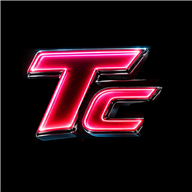
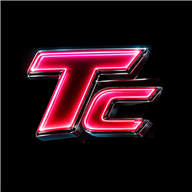
TC symbol cleaned: C bottom end rebuilt, T stem no longer covered

diff --git a/site/ride.html b/site/ride.html
@@ -23,11 +23,11 @@
 <link rel="preconnect" href="https://fonts.googleapis.com">
 <link rel="preconnect" href="https://fonts.gstatic.com" crossorigin>
 <link href="https://fonts.googleapis.com/css2?family=Oswald:wght@500;700&family=Great+Vibes&family=Inter:wght@400;500;600;700&display=swap" rel="stylesheet">
-<link rel="stylesheet" href="/assets/css/style.css?v=mw1ucftt">
-<link rel="stylesheet" href="/assets/css/fx.css?v=mw1ucftt">
-<link rel="stylesheet" href="/assets/css/app.css?v=mw1ucftt">
-<link rel="stylesheet" href="/assets/css/members.css?v=mw1ucftt">
-<link rel="stylesheet" href="/assets/css/light.css?v=mw1ucftt">
+<link rel="stylesheet" href="/assets/css/style.css?v=mw1ukhep">
+<link rel="stylesheet" href="/assets/css/fx.css?v=mw1ukhep">
+<link rel="stylesheet" href="/assets/css/app.css?v=mw1ukhep">
+<link rel="stylesheet" href="/assets/css/members.css?v=mw1ukhep">
+<link rel="stylesheet" href="/assets/css/light.css?v=mw1ukhep">
 <script>try{var q=new URLSearchParams(location.search).get('theme');if(q)localStorage.setItem('take_theme',q);if(localStorage.getItem('take_theme')==='light')document.documentElement.dataset.theme='light'}catch(e){}</script>
 <script type="application/ld+json">{"@context":"https://schema.org","@graph":[{"@type":"WebPage","@id":"https://take-canggu.pages.dev/ride","url":"https://take-canggu.pages.dev/ride","name":"Scooter Rental Canggu from Rp 85K a day | TAKE Scooter Rental Berawa","description":"Rent a Scoopy, Beat, Vario, NMAX, PCX, ADV or XMAX in Berawa, Canggu, from Rp 85K a day. Drivers for the airport, Ubud, Uluwatu and Mount Batur sunrise treks. Book online, confirm on WhatsApp.","about":{"@id":"https://take-canggu.pages.dev/ride#rental"},"inLanguage":"en"},{"@type":"AutoRental","@id":"https://take-canggu.pages.dev/ride#rental","name":"TAKE Scooter Rental","alternateName":"TAKE SCOOTER RENTAL","url":"https://take-canggu.pages.dev/ride","image":["https://take-canggu.pages.dev/assets/img/shop-side.jpg","https://take-canggu.pages.dev/assets/img/og-ride.jpg"],"telephone":["+6282240160894","+6282145954191","+6282191337592"],"address":{"@type":"PostalAddress","streetAddress":"Perum Prapta Canggu Asri Blok D No.1, Jl. Krisnantara 1, off Jl. Pantai Berawa","addressLocality":"Tibubeneng, Canggu","addressRegion":"Bali","addressCountry":"ID"},"geo":{"@type":"GeoCoordinates","latitude":-8.6481268,"longitude":115.1481513},"hasMap":"https://maps.google.com/?cid=2267207769960955668","openingHoursSpecification":{"@type":"OpeningHoursSpecification","dayOfWeek":["Monday","Tuesday","Wednesday","Thursday","Friday","Saturday","Sunday"],"opens":"07:00","closes":"20:00"},"priceRange":"Rp 85K a day and up","currenciesAccepted":"IDR","makesOffer":[{"@type":"Offer","name":"Honda Beat scooter rental","priceCurrency":"IDR","priceSpecification":{"@type":"UnitPriceSpecification","price":85000,"priceCurrency":"IDR","unitCode":"DAY","unitText":"per day"},"itemOffered":{"@type":"Product","name":"Honda Beat","description":"110cc automatic scooter"}},{"@type":"Offer","name":"Yamaha Gear scooter rental","priceCurrency":"IDR","priceSpecification":{"@type":"UnitPriceSpecification","price":85000,"priceCurrency":"IDR","unitCode":"DAY","unitText":"per day"},"itemOffered":{"@type":"Product","name":"Yamaha Gear","description":"125cc automatic scooter"}},{"@type":"Offer","name":"Honda Scoopy scooter rental","priceCurrency":"IDR","priceSpecification":{"@type":"UnitPriceSpecification","price":100000,"priceCurrency":"IDR","unitCode":"DAY","unitText":"per day"},"itemOffered":{"@type":"Product","name":"Honda Scoopy","description":"110cc automatic scooter"}},{"@type":"Offer","name":"Yamaha Fazzio scooter rental","priceCurrency":"IDR","priceSpecification":{"@type":"UnitPriceSpecification","price":100000,"priceCurrency":"IDR","unitCode":"DAY","unitText":"per day"},"itemOffered":{"@type":"Product","name":"Yamaha Fazzio","description":"125cc automatic scooter"}},{"@type":"Offer","name":"Honda Vario scooter rental","priceCurrency":"IDR","priceSpecification":{"@type":"UnitPriceSpecification","price":120000,"priceCurrency":"IDR","unitCode":"DAY","unitText":"per day"},"itemOffered":{"@type":"Product","name":"Honda Vario","description":"125cc automatic scooter"}},{"@type":"Offer","name":"Yamaha NMAX scooter rental","priceCurrency":"IDR","priceSpecification":{"@type":"UnitPriceSpecification","price":150000,"priceCurrency":"IDR","unitCode":"DAY","unitText":"per day"},"itemOffered":{"@type":"Product","name":"Yamaha NMAX","description":"155cc automatic scooter"}},{"@type":"Offer","name":"Honda PCX scooter rental","priceCurrency":"IDR","priceSpecification":{"@type":"UnitPriceSpecification","price":150000,"priceCurrency":"IDR","unitCode":"DAY","unitText":"per day"},"itemOffered":{"@type":"Product","name":"Honda PCX","description":"160cc automatic scooter"}},{"@type":"Offer","name":"Honda ADV scooter rental","priceCurrency":"IDR","priceSpecification":{"@type":"UnitPriceSpecification","price":175000,"priceCurrency":"IDR","unitCode":"DAY","unitText":"per day"},"itemOffered":{"@type":"Product","name":"Honda ADV","description":"160cc automatic scooter"}},{"@type":"Offer","name":"Yamaha XMAX scooter rental","priceCurrency":"IDR","priceSpecification":{"@type":"UnitPriceSpecification","price":300000,"priceCurrency":"IDR","unitCode":"DAY","unitText":"per day"},"itemOffered":{"@type":"Product","name":"Yamaha XMAX","description":"250cc automatic scooter"}}]},{"@type":"CafeOrCoffeeShop","@id":"https://take-canggu.pages.dev/#cafe","name":"TAKE Coffee & Eatery","alternateName":"Take Coffee Canggu","url":"https://take-canggu.pages.dev/","image":["https://take-canggu.pages.dev/assets/img/shop-front.jpg","https://take-canggu.pages.dev/assets/img/og-eat.jpg"],"telephone":"+6282191337592","address":{"@type":"PostalAddress","streetAddress":"Perum Prapta Canggu Asri Blok D No.1, Jl. Krisnantara 1, off Jl. Pantai Berawa","addressLocality":"Tibubeneng, Canggu","addressRegion":"Bali","addressCountry":"ID"},"geo":{"@type":"GeoCoordinates","latitude":-8.6481201,"longitude":115.1481354},"hasMap":"https://maps.google.com/?cid=11705024513808798293","openingHoursSpecification":{"@type":"OpeningHoursSpecification","dayOfWeek":["Monday","Tuesday","Wednesday","Thursday","Friday","Saturday","Sunday"],"opens":"07:00","closes":"20:00"},"servesCuisine":["Indonesian","Western","Coffee"],"priceRange":"Rp 6K to Rp 55K","currenciesAccepted":"IDR","hasMenu":{"@type":"Menu","name":"TAKE Coffee & Eatery menu","hasMenuSection":[{"@type":"MenuSection","name":"Breakfast","hasMenuItem":[{"@type":"MenuItem","name":"Easy Breakfast","offers":{"@type":"Offer","price":45000,"priceCurrency":"IDR"}},{"@type":"MenuItem","name":"Simple Breakfast","offers":{"@type":"Offer","price":50000,"priceCurrency":"IDR"}},{"@type":"MenuItem","name":"2 x 2 Breakfast","offers":{"@type":"Offer","price":25000,"priceCurrency":"IDR"}},{"@type":"MenuItem","name":"Fruit Platter","offers":{"@type":"Offer","price":40000,"priceCurrency":"IDR"}}]},{"@type":"MenuSection","name":"Local food","hasMenuItem":[{"@type":"MenuItem","name":"Nasi Goreng","offers":{"@type":"Offer","price":20000,"priceCurrency":"IDR"}},{"@type":"MenuItem","name":"Nasi Goreng Chicken","offers":{"@type":"Offer","price":25000,"priceCurrency":"IDR"}},{"@type":"MenuItem","name":"Mi Goreng","offers":{"@type":"Offer","price":20000,"priceCurrency":"IDR"}},{"@type":"MenuItem","name":"Mi Goreng Chicken","offers":{"@type":"Offer","price":25000,"priceCurrency":"IDR"}},{"@type":"MenuItem","name":"Sweet & Sour Chicken","offers":{"@type":"Offer","price":25000,"priceCurrency":"IDR"}},{"@type":"MenuItem","name":"Fuyung Hai","offers":{"@type":"Offer","price":20000,"priceCurrency":"IDR"}},{"@type":"MenuItem","name":"Cap Cay","offers":{"@type":"Offer","price":25000,"priceCurrency":"IDR"}},{"@type":"MenuItem","name":"Steamed Rice","offers":{"@type":"Offer","price":6000,"priceCurrency":"IDR"}}]},{"@type":"MenuSection","name":"Pizza","hasMenuItem":[{"@type":"MenuItem","name":"Meat Lover","offers":{"@type":"Offer","price":55000,"priceCurrency":"IDR"}},{"@type":"MenuItem","name":"Hawai","offers":{"@type":"Offer","price":50000,"priceCurrency":"IDR"}},{"@type":"MenuItem","name":"Vegetable","offers":{"@type":"Offer","price":45000,"priceCurrency":"IDR"}},{"@type":"MenuItem","name":"Margherita","offers":{"@type":"Offer","price":40000,"priceCurrency":"IDR"}}]},{"@type":"MenuSection","name":"Pasta","hasMenuItem":[{"@type":"MenuItem","name":"Bolognese","offers":{"@type":"Offer","price":45000,"priceCurrency":"IDR"}},{"@type":"MenuItem","name":"Carbonara","offers":{"@type":"Offer","price":50000,"priceCurrency":"IDR"}},{"@type":"MenuItem","name":"Aglio Olio","offers":{"@type":"Offer","price":40000,"priceCurrency":"IDR"}}]},{"@type":"MenuSection","name":"Small bites","hasMenuItem":[{"@type":"MenuItem","name":"French Fries","offers":{"@type":"Offer","price":20000,"priceCurrency":"IDR"}},{"@type":"MenuItem","name":"Chicken Nuggets","offers":{"@type":"Offer","price":20000,"priceCurrency":"IDR"}},{"@type":"MenuItem","name":"Grilled Sausage","offers":{"@type":"Offer","price":20000,"priceCurrency":"IDR"}},{"@type":"MenuItem","name":"Potato Wedges","offers":{"@type":"Offer","price":20000,"priceCurrency":"IDR"}},{"@type":"MenuItem","name":"Fried Tempeh","offers":{"@type":"Offer","price":20000,"priceCurrency":"IDR"}}]},{"@type":"MenuSection","name":"Coffee & drinks","hasMenuItem":[{"@type":"MenuItem","name":"Latte (hot or cold)","offers":{"@type":"Offer","price":20000,"priceCurrency":"IDR"}},{"@type":"MenuItem","name":"Cappuccino (hot or cold)","offers":{"@type":"Offer","price":20000,"priceCurrency":"IDR"}},{"@type":"MenuItem","name":"Bali Coffee","offers":{"@type":"Offer","price":10000,"priceCurrency":"IDR"}},{"@type":"MenuItem","name":"Nescafe","offers":{"@type":"Offer","price":10000,"priceCurrency":"IDR"}},{"@type":"MenuItem","name":"Tea (hot or cold)","offers":{"@type":"Offer","price":8000,"priceCurrency":"IDR"}},{"@type":"MenuItem","name":"Mineral Water","offers":{"@type":"Offer","price":8000,"priceCurrency":"IDR"}},{"@type":"MenuItem","name":"Sprite","offers":{"@type":"Offer","price":10000,"priceCurrency":"IDR"}},{"@type":"MenuItem","name":"Fanta","offers":{"@type":"Offer","price":10000,"priceCurrency":"IDR"}},{"@type":"MenuItem","name":"Coca Cola","offers":{"@type":"Offer","price":10000,"priceCurrency":"IDR"}}]},{"@type":"MenuSection","name":"Juices","hasMenuItem":[{"@type":"MenuItem","name":"Avocado Juice","offers":{"@type":"Offer","price":20000,"priceCurrency":"IDR"}},{"@type":"MenuItem","name":"Dragon Fruit Juice","offers":{"@type":"Offer","price":20000,"priceCurrency":"IDR"}},{"@type":"MenuItem","name":"Watermelon Juice","offers":{"@type":"Offer","price":15000,"priceCurrency":"IDR"}},{"@type":"MenuItem","name":"Pineapple Juice","offers":{"@type":"Offer","price":15000,"priceCurrency":"IDR"}},{"@type":"MenuItem","name":"Orange Juice","offers":{"@type":"Offer","price":15000,"priceCurrency":"IDR"}},{"@type":"MenuItem","name":"Young Coconut","offers":{"@type":"Offer","price":20000,"priceCurrency":"IDR"}},{"@type":"MenuItem","name":"Traditional Jamu","offers":{"@type":"Offer","price":35000,"priceCurrency":"IDR"}},{"@type":"MenuItem","name":"Natural Black Honey"}]},{"@type":"MenuSection","name":"Beer","hasMenuItem":[{"@type":"MenuItem","name":"Bintang Original","offers":{"@type":"Offer","price":35000,"priceCurrency":"IDR"}},{"@type":"MenuItem","name":"Bintang Radler","offers":{"@type":"Offer","price":35000,"priceCurrency":"IDR"}},{"@type":"MenuItem","name":"Bintang Crystal","offers":{"@type":"Offer","price":35000,"priceCurrency":"IDR"}}]}]}},{"@type":"FAQPage","mainEntity":[{"@type":"Question","name":"Where is TAKE in Canggu?","acceptedAnswer":{"@type":"Answer","text":"In Perum Prapta Canggu Asri, Blok D No.1, on Jl. Krisnantara 1, a quiet lane off Jalan Pantai Berawa in Tibubeneng. TAKE Coffee and TAKE Scooter Rental share the white house with the two signs."}},{"@type":"Question","name":"What are the opening hours?","acceptedAnswer":{"@type":"Answer","text":"Every day from 7am to 8pm, for the kitchen and the rental desk."}},{"@type":"Question","name":"Do you deliver food?","acceptedAnswer":{"@type":"Answer","text":"Yes. Order on this page and choose delivery, or WhatsApp the kitchen on 0821 9133 7592."}},{"@type":"Question","name":"How much is a scooter a day?","acceptedAnswer":{"@type":"Answer","text":"From Rp 85K a day: Honda Beat 85K, Yamaha Gear 85K, Honda Scoopy 100K, Yamaha Fazzio 100K, Honda Vario 120K, Yamaha NMAX 150K, Honda PCX 150K, Honda ADV 175K, Yamaha XMAX 300K."}},{"@type":"Question","name":"How do I book a scooter?","acceptedAnswer":{"@type":"Answer","text":"Choose a model and your dates on the scooter page and send the request. We confirm the bike and the price on WhatsApp, then you pick it up at the shop."}},{"@type":"Question","name":"How do I pay?","acceptedAnswer":{"@type":"Answer","text":"Online payment is coming soon. For now we confirm your scooter booking on WhatsApp and you pay at the shop; food is paid at the counter."}},{"@type":"Question","name":"How do TAKE Points work?","acceptedAnswer":{"@type":"Answer","text":"Sign in as a member with your email. You get 1 point for every Rp 10K you pay on food and scooter rentals, and 100 points take Rp 25K off your next order or rental."}},{"@type":"Question","name":"Do you have drivers and tours?","acceptedAnswer":{"@type":"Answer","text":"Yes: Airport transfer, Sanur, Ubud, Nusa Dua, Uluwatu, Tanah Lot, Candi Dasa, Padang Bay, Trekking Mount Batur, Trekking Mount Agung, Full day tour. Send a request with the date and pick-up place."}}]}]}</script>
 </head>
@@ -339,15 +339,15 @@
   <a class="chat-human" id="chatHuman" href="https://wa.me/6282240160894" target="_blank" rel="noopener"><svg viewBox="0 0 24 24" aria-hidden="true"><path d="M12 3C6.9 3 3 6.6 3 11.1c0 2.5 1.2 4.7 3.2 6.2L5.5 21l3.9-2.1c.8.2 1.7.3 2.6.3 5.1 0 9-3.6 9-8.1S17.1 3 12 3Z" fill="none" stroke="currentColor" stroke-width="1.8" stroke-linejoin="round"/></svg><span>Talk to a person on WhatsApp</span></a>
 </div>
 <button class="cart-fab only-eat" id="cartFab" type="button" hidden>Order <b id="cartCount">0</b> · <span id="cartTotal"></span></button>
-<script src="/assets/js/data.js?v=mw1ucftt"></script>
-<script src="/assets/js/main.js?v=mw1ucftt"></script>
-<script src="/assets/js/member.js?v=mw1ucftt"></script>
-<script src="/assets/js/book.js?v=mw1ucftt"></script>
-<script src="/assets/js/chat.js?v=mw1ucftt"></script>
-<script src="/assets/js/zoom.js?v=mw1ucftt"></script>
-<script src="/assets/js/theme.js?v=mw1ucftt"></script>
+<script src="/assets/js/data.js?v=mw1ukhep"></script>
+<script src="/assets/js/main.js?v=mw1ukhep"></script>
+<script src="/assets/js/member.js?v=mw1ukhep"></script>
+<script src="/assets/js/book.js?v=mw1ukhep"></script>
+<script src="/assets/js/chat.js?v=mw1ukhep"></script>
+<script src="/assets/js/zoom.js?v=mw1ukhep"></script>
+<script src="/assets/js/theme.js?v=mw1ukhep"></script>
 <script src="/i18n.js" defer></script>
-<script src="/assets/js/space.js?v=mw1ucftt"></script>
-<script src="/assets/js/fx.js?v=mw1ucftt"></script>
+<script src="/assets/js/space.js?v=mw1ukhep"></script>
+<script src="/assets/js/fx.js?v=mw1ukhep"></script>
 </body>
 </html>

diff --git a/site/index.html b/site/index.html
@@ -23,11 +23,11 @@
 <link rel="preconnect" href="https://fonts.googleapis.com">
 <link rel="preconnect" href="https://fonts.gstatic.com" crossorigin>
 <link href="https://fonts.googleapis.com/css2?family=Oswald:wght@500;700&family=Great+Vibes&family=Inter:wght@400;500;600;700&display=swap" rel="stylesheet">
-<link rel="stylesheet" href="/assets/css/style.css?v=mw1ucftt">
-<link rel="stylesheet" href="/assets/css/fx.css?v=mw1ucftt">
-<link rel="stylesheet" href="/assets/css/app.css?v=mw1ucftt">
-<link rel="stylesheet" href="/assets/css/members.css?v=mw1ucftt">
-<link rel="stylesheet" href="/assets/css/light.css?v=mw1ucftt">
+<link rel="stylesheet" href="/assets/css/style.css?v=mw1ukhep">
+<link rel="stylesheet" href="/assets/css/fx.css?v=mw1ukhep">
+<link rel="stylesheet" href="/assets/css/app.css?v=mw1ukhep">
+<link rel="stylesheet" href="/assets/css/members.css?v=mw1ukhep">
+<link rel="stylesheet" href="/assets/css/light.css?v=mw1ukhep">
 <script>try{var q=new URLSearchParams(location.search).get('theme');if(q)localStorage.setItem('take_theme',q);if(localStorage.getItem('take_theme')==='light')document.documentElement.dataset.theme='light'}catch(e){}</script>
 <script type="application/ld+json">{"@context":"https://schema.org","@graph":[{"@type":"WebPage","@id":"https://take-canggu.pages.dev/","url":"https://take-canggu.pages.dev/","name":"TAKE Coffee Canggu | Cafe & Restaurant in Berawa, Bali","description":"TAKE Coffee & Eatery on Jl. Pantai Berawa, Canggu: coffee, nasi goreng and mi goreng from Rp 20K, pizza, pasta, breakfasts, coffee and fresh juice. Eat in, pick up or order delivery. Open every day, 7am to 8pm.","about":{"@id":"https://take-canggu.pages.dev/#cafe"},"inLanguage":"en"},{"@type":"CafeOrCoffeeShop","@id":"https://take-canggu.pages.dev/#cafe","name":"TAKE Coffee & Eatery","alternateName":"Take Coffee Canggu","url":"https://take-canggu.pages.dev/","image":["https://take-canggu.pages.dev/assets/img/shop-front.jpg","https://take-canggu.pages.dev/assets/img/og-eat.jpg"],"telephone":"+6282191337592","address":{"@type":"PostalAddress","streetAddress":"Perum Prapta Canggu Asri Blok D No.1, Jl. Krisnantara 1, off Jl. Pantai Berawa","addressLocality":"Tibubeneng, Canggu","addressRegion":"Bali","addressCountry":"ID"},"geo":{"@type":"GeoCoordinates","latitude":-8.6481201,"longitude":115.1481354},"hasMap":"https://maps.google.com/?cid=11705024513808798293","openingHoursSpecification":{"@type":"OpeningHoursSpecification","dayOfWeek":["Monday","Tuesday","Wednesday","Thursday","Friday","Saturday","Sunday"],"opens":"07:00","closes":"20:00"},"servesCuisine":["Indonesian","Western","Coffee"],"priceRange":"Rp 6K to Rp 55K","currenciesAccepted":"IDR","hasMenu":{"@type":"Menu","name":"TAKE Coffee & Eatery menu","hasMenuSection":[{"@type":"MenuSection","name":"Breakfast","hasMenuItem":[{"@type":"MenuItem","name":"Easy Breakfast","offers":{"@type":"Offer","price":45000,"priceCurrency":"IDR"}},{"@type":"MenuItem","name":"Simple Breakfast","offers":{"@type":"Offer","price":50000,"priceCurrency":"IDR"}},{"@type":"MenuItem","name":"2 x 2 Breakfast","offers":{"@type":"Offer","price":25000,"priceCurrency":"IDR"}},{"@type":"MenuItem","name":"Fruit Platter","offers":{"@type":"Offer","price":40000,"priceCurrency":"IDR"}}]},{"@type":"MenuSection","name":"Local food","hasMenuItem":[{"@type":"MenuItem","name":"Nasi Goreng","offers":{"@type":"Offer","price":20000,"priceCurrency":"IDR"}},{"@type":"MenuItem","name":"Nasi Goreng Chicken","offers":{"@type":"Offer","price":25000,"priceCurrency":"IDR"}},{"@type":"MenuItem","name":"Mi Goreng","offers":{"@type":"Offer","price":20000,"priceCurrency":"IDR"}},{"@type":"MenuItem","name":"Mi Goreng Chicken","offers":{"@type":"Offer","price":25000,"priceCurrency":"IDR"}},{"@type":"MenuItem","name":"Sweet & Sour Chicken","offers":{"@type":"Offer","price":25000,"priceCurrency":"IDR"}},{"@type":"MenuItem","name":"Fuyung Hai","offers":{"@type":"Offer","price":20000,"priceCurrency":"IDR"}},{"@type":"MenuItem","name":"Cap Cay","offers":{"@type":"Offer","price":25000,"priceCurrency":"IDR"}},{"@type":"MenuItem","name":"Steamed Rice","offers":{"@type":"Offer","price":6000,"priceCurrency":"IDR"}}]},{"@type":"MenuSection","name":"Pizza","hasMenuItem":[{"@type":"MenuItem","name":"Meat Lover","offers":{"@type":"Offer","price":55000,"priceCurrency":"IDR"}},{"@type":"MenuItem","name":"Hawai","offers":{"@type":"Offer","price":50000,"priceCurrency":"IDR"}},{"@type":"MenuItem","name":"Vegetable","offers":{"@type":"Offer","price":45000,"priceCurrency":"IDR"}},{"@type":"MenuItem","name":"Margherita","offers":{"@type":"Offer","price":40000,"priceCurrency":"IDR"}}]},{"@type":"MenuSection","name":"Pasta","hasMenuItem":[{"@type":"MenuItem","name":"Bolognese","offers":{"@type":"Offer","price":45000,"priceCurrency":"IDR"}},{"@type":"MenuItem","name":"Carbonara","offers":{"@type":"Offer","price":50000,"priceCurrency":"IDR"}},{"@type":"MenuItem","name":"Aglio Olio","offers":{"@type":"Offer","price":40000,"priceCurrency":"IDR"}}]},{"@type":"MenuSection","name":"Small bites","hasMenuItem":[{"@type":"MenuItem","name":"French Fries","offers":{"@type":"Offer","price":20000,"priceCurrency":"IDR"}},{"@type":"MenuItem","name":"Chicken Nuggets","offers":{"@type":"Offer","price":20000,"priceCurrency":"IDR"}},{"@type":"MenuItem","name":"Grilled Sausage","offers":{"@type":"Offer","price":20000,"priceCurrency":"IDR"}},{"@type":"MenuItem","name":"Potato Wedges","offers":{"@type":"Offer","price":20000,"priceCurrency":"IDR"}},{"@type":"MenuItem","name":"Fried Tempeh","offers":{"@type":"Offer","price":20000,"priceCurrency":"IDR"}}]},{"@type":"MenuSection","name":"Coffee & drinks","hasMenuItem":[{"@type":"MenuItem","name":"Latte (hot or cold)","offers":{"@type":"Offer","price":20000,"priceCurrency":"IDR"}},{"@type":"MenuItem","name":"Cappuccino (hot or cold)","offers":{"@type":"Offer","price":20000,"priceCurrency":"IDR"}},{"@type":"MenuItem","name":"Bali Coffee","offers":{"@type":"Offer","price":10000,"priceCurrency":"IDR"}},{"@type":"MenuItem","name":"Nescafe","offers":{"@type":"Offer","price":10000,"priceCurrency":"IDR"}},{"@type":"MenuItem","name":"Tea (hot or cold)","offers":{"@type":"Offer","price":8000,"priceCurrency":"IDR"}},{"@type":"MenuItem","name":"Mineral Water","offers":{"@type":"Offer","price":8000,"priceCurrency":"IDR"}},{"@type":"MenuItem","name":"Sprite","offers":{"@type":"Offer","price":10000,"priceCurrency":"IDR"}},{"@type":"MenuItem","name":"Fanta","offers":{"@type":"Offer","price":10000,"priceCurrency":"IDR"}},{"@type":"MenuItem","name":"Coca Cola","offers":{"@type":"Offer","price":10000,"priceCurrency":"IDR"}}]},{"@type":"MenuSection","name":"Juices","hasMenuItem":[{"@type":"MenuItem","name":"Avocado Juice","offers":{"@type":"Offer","price":20000,"priceCurrency":"IDR"}},{"@type":"MenuItem","name":"Dragon Fruit Juice","offers":{"@type":"Offer","price":20000,"priceCurrency":"IDR"}},{"@type":"MenuItem","name":"Watermelon Juice","offers":{"@type":"Offer","price":15000,"priceCurrency":"IDR"}},{"@type":"MenuItem","name":"Pineapple Juice","offers":{"@type":"Offer","price":15000,"priceCurrency":"IDR"}},{"@type":"MenuItem","name":"Orange Juice","offers":{"@type":"Offer","price":15000,"priceCurrency":"IDR"}},{"@type":"MenuItem","name":"Young Coconut","offers":{"@type":"Offer","price":20000,"priceCurrency":"IDR"}},{"@type":"MenuItem","name":"Traditional Jamu","offers":{"@type":"Offer","price":35000,"priceCurrency":"IDR"}},{"@type":"MenuItem","name":"Natural Black Honey"}]},{"@type":"MenuSection","name":"Beer","hasMenuItem":[{"@type":"MenuItem","name":"Bintang Original","offers":{"@type":"Offer","price":35000,"priceCurrency":"IDR"}},{"@type":"MenuItem","name":"Bintang Radler","offers":{"@type":"Offer","price":35000,"priceCurrency":"IDR"}},{"@type":"MenuItem","name":"Bintang Crystal","offers":{"@type":"Offer","price":35000,"priceCurrency":"IDR"}}]}]}},{"@type":"AutoRental","@id":"https://take-canggu.pages.dev/ride#rental","name":"TAKE Scooter Rental","alternateName":"TAKE SCOOTER RENTAL","url":"https://take-canggu.pages.dev/ride","image":["https://take-canggu.pages.dev/assets/img/shop-side.jpg","https://take-canggu.pages.dev/assets/img/og-ride.jpg"],"telephone":["+6282240160894","+6282145954191","+6282191337592"],"address":{"@type":"PostalAddress","streetAddress":"Perum Prapta Canggu Asri Blok D No.1, Jl. Krisnantara 1, off Jl. Pantai Berawa","addressLocality":"Tibubeneng, Canggu","addressRegion":"Bali","addressCountry":"ID"},"geo":{"@type":"GeoCoordinates","latitude":-8.6481268,"longitude":115.1481513},"hasMap":"https://maps.google.com/?cid=2267207769960955668","openingHoursSpecification":{"@type":"OpeningHoursSpecification","dayOfWeek":["Monday","Tuesday","Wednesday","Thursday","Friday","Saturday","Sunday"],"opens":"07:00","closes":"20:00"},"priceRange":"Rp 85K a day and up","currenciesAccepted":"IDR","makesOffer":[{"@type":"Offer","name":"Honda Beat scooter rental","priceCurrency":"IDR","priceSpecification":{"@type":"UnitPriceSpecification","price":85000,"priceCurrency":"IDR","unitCode":"DAY","unitText":"per day"},"itemOffered":{"@type":"Product","name":"Honda Beat","description":"110cc automatic scooter"}},{"@type":"Offer","name":"Yamaha Gear scooter rental","priceCurrency":"IDR","priceSpecification":{"@type":"UnitPriceSpecification","price":85000,"priceCurrency":"IDR","unitCode":"DAY","unitText":"per day"},"itemOffered":{"@type":"Product","name":"Yamaha Gear","description":"125cc automatic scooter"}},{"@type":"Offer","name":"Honda Scoopy scooter rental","priceCurrency":"IDR","priceSpecification":{"@type":"UnitPriceSpecification","price":100000,"priceCurrency":"IDR","unitCode":"DAY","unitText":"per day"},"itemOffered":{"@type":"Product","name":"Honda Scoopy","description":"110cc automatic scooter"}},{"@type":"Offer","name":"Yamaha Fazzio scooter rental","priceCurrency":"IDR","priceSpecification":{"@type":"UnitPriceSpecification","price":100000,"priceCurrency":"IDR","unitCode":"DAY","unitText":"per day"},"itemOffered":{"@type":"Product","name":"Yamaha Fazzio","description":"125cc automatic scooter"}},{"@type":"Offer","name":"Honda Vario scooter rental","priceCurrency":"IDR","priceSpecification":{"@type":"UnitPriceSpecification","price":120000,"priceCurrency":"IDR","unitCode":"DAY","unitText":"per day"},"itemOffered":{"@type":"Product","name":"Honda Vario","description":"125cc automatic scooter"}},{"@type":"Offer","name":"Yamaha NMAX scooter rental","priceCurrency":"IDR","priceSpecification":{"@type":"UnitPriceSpecification","price":150000,"priceCurrency":"IDR","unitCode":"DAY","unitText":"per day"},"itemOffered":{"@type":"Product","name":"Yamaha NMAX","description":"155cc automatic scooter"}},{"@type":"Offer","name":"Honda PCX scooter rental","priceCurrency":"IDR","priceSpecification":{"@type":"UnitPriceSpecification","price":150000,"priceCurrency":"IDR","unitCode":"DAY","unitText":"per day"},"itemOffered":{"@type":"Product","name":"Honda PCX","description":"160cc automatic scooter"}},{"@type":"Offer","name":"Honda ADV scooter rental","priceCurrency":"IDR","priceSpecification":{"@type":"UnitPriceSpecification","price":175000,"priceCurrency":"IDR","unitCode":"DAY","unitText":"per day"},"itemOffered":{"@type":"Product","name":"Honda ADV","description":"160cc automatic scooter"}},{"@type":"Offer","name":"Yamaha XMAX scooter rental","priceCurrency":"IDR","priceSpecification":{"@type":"UnitPriceSpecification","price":300000,"priceCurrency":"IDR","unitCode":"DAY","unitText":"per day"},"itemOffered":{"@type":"Product","name":"Yamaha XMAX","description":"250cc automatic scooter"}}]},{"@type":"FAQPage","mainEntity":[{"@type":"Question","name":"Where is TAKE in Canggu?","acceptedAnswer":{"@type":"Answer","text":"In Perum Prapta Canggu Asri, Blok D No.1, on Jl. Krisnantara 1, a quiet lane off Jalan Pantai Berawa in Tibubeneng. TAKE Coffee and TAKE Scooter Rental share the white house with the two signs."}},{"@type":"Question","name":"What are the opening hours?","acceptedAnswer":{"@type":"Answer","text":"Every day from 7am to 8pm, for the kitchen and the rental desk."}},{"@type":"Question","name":"Do you deliver food?","acceptedAnswer":{"@type":"Answer","text":"Yes. Order on this page and choose delivery, or WhatsApp the kitchen on 0821 9133 7592."}},{"@type":"Question","name":"How much is a scooter a day?","acceptedAnswer":{"@type":"Answer","text":"From Rp 85K a day: Honda Beat 85K, Yamaha Gear 85K, Honda Scoopy 100K, Yamaha Fazzio 100K, Honda Vario 120K, Yamaha NMAX 150K, Honda PCX 150K, Honda ADV 175K, Yamaha XMAX 300K."}},{"@type":"Question","name":"How do I book a scooter?","acceptedAnswer":{"@type":"Answer","text":"Choose a model and your dates on the scooter page and send the request. We confirm the bike and the price on WhatsApp, then you pick it up at the shop."}},{"@type":"Question","name":"How do I pay?","acceptedAnswer":{"@type":"Answer","text":"Online payment is coming soon. For now we confirm your scooter booking on WhatsApp and you pay at the shop; food is paid at the counter."}},{"@type":"Question","name":"How do TAKE Points work?","acceptedAnswer":{"@type":"Answer","text":"Sign in as a member with your email. You get 1 point for every Rp 10K you pay on food and scooter rentals, and 100 points take Rp 25K off your next order or rental."}},{"@type":"Question","name":"Do you have drivers and tours?","acceptedAnswer":{"@type":"Answer","text":"Yes: Airport transfer, Sanur, Ubud, Nusa Dua, Uluwatu, Tanah Lot, Candi Dasa, Padang Bay, Trekking Mount Batur, Trekking Mount Agung, Full day tour. Send a request with the date and pick-up place."}}]}]}</script>
 </head>
@@ -339,15 +339,15 @@
   <a class="chat-human" id="chatHuman" href="https://wa.me/6282191337592" target="_blank" rel="noopener"><svg viewBox="0 0 24 24" aria-hidden="true"><path d="M12 3C6.9 3 3 6.6 3 11.1c0 2.5 1.2 4.7 3.2 6.2L5.5 21l3.9-2.1c.8.2 1.7.3 2.6.3 5.1 0 9-3.6 9-8.1S17.1 3 12 3Z" fill="none" stroke="currentColor" stroke-width="1.8" stroke-linejoin="round"/></svg><span>Talk to a person on WhatsApp</span></a>
 </div>
 <button class="cart-fab only-eat" id="cartFab" type="button" hidden>Order <b id="cartCount">0</b> · <span id="cartTotal"></span></button>
-<script src="/assets/js/data.js?v=mw1ucftt"></script>
-<script src="/assets/js/main.js?v=mw1ucftt"></script>
-<script src="/assets/js/member.js?v=mw1ucftt"></script>
-<script src="/assets/js/book.js?v=mw1ucftt"></script>
-<script src="/assets/js/chat.js?v=mw1ucftt"></script>
-<script src="/assets/js/zoom.js?v=mw1ucftt"></script>
-<script src="/assets/js/theme.js?v=mw1ucftt"></script>
+<script src="/assets/js/data.js?v=mw1ukhep"></script>
+<script src="/assets/js/main.js?v=mw1ukhep"></script>
+<script src="/assets/js/member.js?v=mw1ukhep"></script>
+<script src="/assets/js/book.js?v=mw1ukhep"></script>
+<script src="/assets/js/chat.js?v=mw1ukhep"></script>
+<script src="/assets/js/zoom.js?v=mw1ukhep"></script>
+<script src="/assets/js/theme.js?v=mw1ukhep"></script>
 <script src="/i18n.js" defer></script>
-<script src="/assets/js/space.js?v=mw1ucftt"></script>
-<script src="/assets/js/fx.js?v=mw1ucftt"></script>
+<script src="/assets/js/space.js?v=mw1ukhep"></script>
+<script src="/assets/js/fx.js?v=mw1ukhep"></script>
 </body>
 </html>

diff --git a/site/terms.html b/site/terms.html
@@ -23,11 +23,11 @@
 <link rel="preconnect" href="https://fonts.googleapis.com">
 <link rel="preconnect" href="https://fonts.gstatic.com" crossorigin>
 <link href="https://fonts.googleapis.com/css2?family=Oswald:wght@500;700&family=Great+Vibes&family=Inter:wght@400;500;600;700&display=swap" rel="stylesheet">
-<link rel="stylesheet" href="/assets/css/style.css?v=mw1ucftt">
-<link rel="stylesheet" href="/assets/css/fx.css?v=mw1ucftt">
-<link rel="stylesheet" href="/assets/css/app.css?v=mw1ucftt">
-<link rel="stylesheet" href="/assets/css/members.css?v=mw1ucftt">
-<link rel="stylesheet" href="/assets/css/light.css?v=mw1ucftt">
+<link rel="stylesheet" href="/assets/css/style.css?v=mw1ukhep">
+<link rel="stylesheet" href="/assets/css/fx.css?v=mw1ukhep">
+<link rel="stylesheet" href="/assets/css/app.css?v=mw1ukhep">
+<link rel="stylesheet" href="/assets/css/members.css?v=mw1ukhep">
+<link rel="stylesheet" href="/assets/css/light.css?v=mw1ukhep">
 <script>try{var q=new URLSearchParams(location.search).get('theme');if(q)localStorage.setItem('take_theme',q);if(localStorage.getItem('take_theme')==='light')document.documentElement.dataset.theme='light'}catch(e){}</script>
 <script type="application/ld+json">{"@context":"https://schema.org","@graph":[{"@type":"WebPage","@id":"https://take-canggu.pages.dev/terms","url":"https://take-canggu.pages.dev/terms","name":"Scooter rental terms | TAKE Scooter Rental Canggu","description":"Rental terms for TAKE Scooter Rental in Berawa, Canggu: who can rent, licence and documents, payment in advance, pick-up and return, damage, accidents and cancellations.","about":{"@id":"https://take-canggu.pages.dev/ride#rental"},"inLanguage":"en"},{"@type":"AutoRental","@id":"https://take-canggu.pages.dev/ride#rental","name":"TAKE Scooter Rental","alternateName":"TAKE SCOOTER RENTAL","url":"https://take-canggu.pages.dev/ride","image":["https://take-canggu.pages.dev/assets/img/shop-side.jpg","https://take-canggu.pages.dev/assets/img/og-ride.jpg"],"telephone":["+6282240160894","+6282145954191","+6282191337592"],"address":{"@type":"PostalAddress","streetAddress":"Perum Prapta Canggu Asri Blok D No.1, Jl. Krisnantara 1, off Jl. Pantai Berawa","addressLocality":"Tibubeneng, Canggu","addressRegion":"Bali","addressCountry":"ID"},"geo":{"@type":"GeoCoordinates","latitude":-8.6481268,"longitude":115.1481513},"hasMap":"https://maps.google.com/?cid=2267207769960955668","openingHoursSpecification":{"@type":"OpeningHoursSpecification","dayOfWeek":["Monday","Tuesday","Wednesday","Thursday","Friday","Saturday","Sunday"],"opens":"07:00","closes":"20:00"},"priceRange":"Rp 85K a day and up","currenciesAccepted":"IDR","makesOffer":[{"@type":"Offer","name":"Honda Beat scooter rental","priceCurrency":"IDR","priceSpecification":{"@type":"UnitPriceSpecification","price":85000,"priceCurrency":"IDR","unitCode":"DAY","unitText":"per day"},"itemOffered":{"@type":"Product","name":"Honda Beat","description":"110cc automatic scooter"}},{"@type":"Offer","name":"Yamaha Gear scooter rental","priceCurrency":"IDR","priceSpecification":{"@type":"UnitPriceSpecification","price":85000,"priceCurrency":"IDR","unitCode":"DAY","unitText":"per day"},"itemOffered":{"@type":"Product","name":"Yamaha Gear","description":"125cc automatic scooter"}},{"@type":"Offer","name":"Honda Scoopy scooter rental","priceCurrency":"IDR","priceSpecification":{"@type":"UnitPriceSpecification","price":100000,"priceCurrency":"IDR","unitCode":"DAY","unitText":"per day"},"itemOffered":{"@type":"Product","name":"Honda Scoopy","description":"110cc automatic scooter"}},{"@type":"Offer","name":"Yamaha Fazzio scooter rental","priceCurrency":"IDR","priceSpecification":{"@type":"UnitPriceSpecification","price":100000,"priceCurrency":"IDR","unitCode":"DAY","unitText":"per day"},"itemOffered":{"@type":"Product","name":"Yamaha Fazzio","description":"125cc automatic scooter"}},{"@type":"Offer","name":"Honda Vario scooter rental","priceCurrency":"IDR","priceSpecification":{"@type":"UnitPriceSpecification","price":120000,"priceCurrency":"IDR","unitCode":"DAY","unitText":"per day"},"itemOffered":{"@type":"Product","name":"Honda Vario","description":"125cc automatic scooter"}},{"@type":"Offer","name":"Yamaha NMAX scooter rental","priceCurrency":"IDR","priceSpecification":{"@type":"UnitPriceSpecification","price":150000,"priceCurrency":"IDR","unitCode":"DAY","unitText":"per day"},"itemOffered":{"@type":"Product","name":"Yamaha NMAX","description":"155cc automatic scooter"}},{"@type":"Offer","name":"Honda PCX scooter rental","priceCurrency":"IDR","priceSpecification":{"@type":"UnitPriceSpecification","price":150000,"priceCurrency":"IDR","unitCode":"DAY","unitText":"per day"},"itemOffered":{"@type":"Product","name":"Honda PCX","description":"160cc automatic scooter"}},{"@type":"Offer","name":"Honda ADV scooter rental","priceCurrency":"IDR","priceSpecification":{"@type":"UnitPriceSpecification","price":175000,"priceCurrency":"IDR","unitCode":"DAY","unitText":"per day"},"itemOffered":{"@type":"Product","name":"Honda ADV","description":"160cc automatic scooter"}},{"@type":"Offer","name":"Yamaha XMAX scooter rental","priceCurrency":"IDR","priceSpecification":{"@type":"UnitPriceSpecification","price":300000,"priceCurrency":"IDR","unitCode":"DAY","unitText":"per day"},"itemOffered":{"@type":"Product","name":"Yamaha XMAX","description":"250cc automatic scooter"}}]}]}</script>
 </head>
@@ -133,15 +133,15 @@
   <a class="chat-human" id="chatHuman" href="https://wa.me/6282240160894" target="_blank" rel="noopener"><svg viewBox="0 0 24 24" aria-hidden="true"><path d="M12 3C6.9 3 3 6.6 3 11.1c0 2.5 1.2 4.7 3.2 6.2L5.5 21l3.9-2.1c.8.2 1.7.3 2.6.3 5.1 0 9-3.6 9-8.1S17.1 3 12 3Z" fill="none" stroke="currentColor" stroke-width="1.8" stroke-linejoin="round"/></svg><span>Talk to a person on WhatsApp</span></a>
 </div>
 <button class="cart-fab only-eat" id="cartFab" type="button" hidden>Order <b id="cartCount">0</b> · <span id="cartTotal"></span></button>
-<script src="/assets/js/data.js?v=mw1ucftt"></script>
-<script src="/assets/js/main.js?v=mw1ucftt"></script>
-<script src="/assets/js/member.js?v=mw1ucftt"></script>
-<script src="/assets/js/book.js?v=mw1ucftt"></script>
-<script src="/assets/js/chat.js?v=mw1ucftt"></script>
-<script src="/assets/js/zoom.js?v=mw1ucftt"></script>
-<script src="/assets/js/theme.js?v=mw1ucftt"></script>
+<script src="/assets/js/data.js?v=mw1ukhep"></script>
+<script src="/assets/js/main.js?v=mw1ukhep"></script>
+<script src="/assets/js/member.js?v=mw1ukhep"></script>
+<script src="/assets/js/book.js?v=mw1ukhep"></script>
+<script src="/assets/js/chat.js?v=mw1ukhep"></script>
+<script src="/assets/js/zoom.js?v=mw1ukhep"></script>
+<script src="/assets/js/theme.js?v=mw1ukhep"></script>
 <script src="/i18n.js" defer></script>
-<script src="/assets/js/space.js?v=mw1ucftt"></script>
-<script src="/assets/js/fx.js?v=mw1ucftt"></script>
+<script src="/assets/js/space.js?v=mw1ukhep"></script>
+<script src="/assets/js/fx.js?v=mw1ukhep"></script>
 </body>
 </html>

diff --git a/site/staff.html b/site/staff.html
@@ -6,7 +6,7 @@
 <link rel="apple-touch-icon" href="/assets/img/tc-180.png">
 <link href="https://fonts.googleapis.com/css2?family=Oswald:wght@500;700&family=Inter:wght@400;500;600;700&display=swap" rel="stylesheet">
 <link rel="stylesheet" href="https://cdnjs.cloudflare.com/ajax/libs/leaflet/1.9.4/leaflet.min.css">
-<link rel="stylesheet" href="/assets/css/style.css?v=mw1ucftt"><link rel="stylesheet" href="/assets/css/app.css?v=mw1ucftt">
+<link rel="stylesheet" href="/assets/css/style.css?v=mw1ukhep"><link rel="stylesheet" href="/assets/css/app.css?v=mw1ukhep">
 </head><body class="page-staff">
 <div class="login" id="login">
   <form class="card form" id="loginForm">
@@ -69,5 +69,5 @@
 <div class="dlg" id="dlg" hidden><form class="card form" id="dlgForm"></form></div>
 
 <script src="https://cdnjs.cloudflare.com/ajax/libs/leaflet/1.9.4/leaflet.min.js"></script>
-<script src="/assets/js/data.js?v=mw1ucftt"></script><script src="/assets/js/staff.js?v=mw1ucftt"></script>
+<script src="/assets/js/data.js?v=mw1ukhep"></script><script src="/assets/js/staff.js?v=mw1ukhep"></script>
 </body></html>
